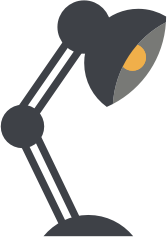
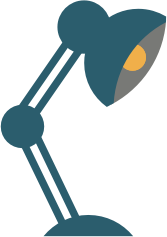
Change footer style

diff --git a/_sass/_base.scss b/_sass/_base.scss
@@ -434,7 +434,7 @@ background-color: rgba(255, 255, 255, 0.7);
       height: 200px;
     }
     div:nth-child(2) {
-      background-color: $093847;
+      background-color: $grey-dark;
       height: 200px;
       margin-bottom: 20px;
     }
@@ -713,7 +713,7 @@ background-color: rgba(255, 255, 255, 0.7);
 /*FOOTER*/
 
 footer {
-  background: $grey-dark;
+  background: #093847;
   color: $grey-light;
   margin-top: 140px;
   padding: 75px 0 50px;

diff --git a/css/main.scss b/css/main.scss
@@ -2,7 +2,7 @@
 # Only the main Sass file needs front matter (the dashes are enough)
 ---
 
-$grey-dark: #312F38;
+$grey-dark: #093847;
 $grey: #646975;
 $grey-light: #BFBFC2;
 $grey-lighter: #F7F7F7;
